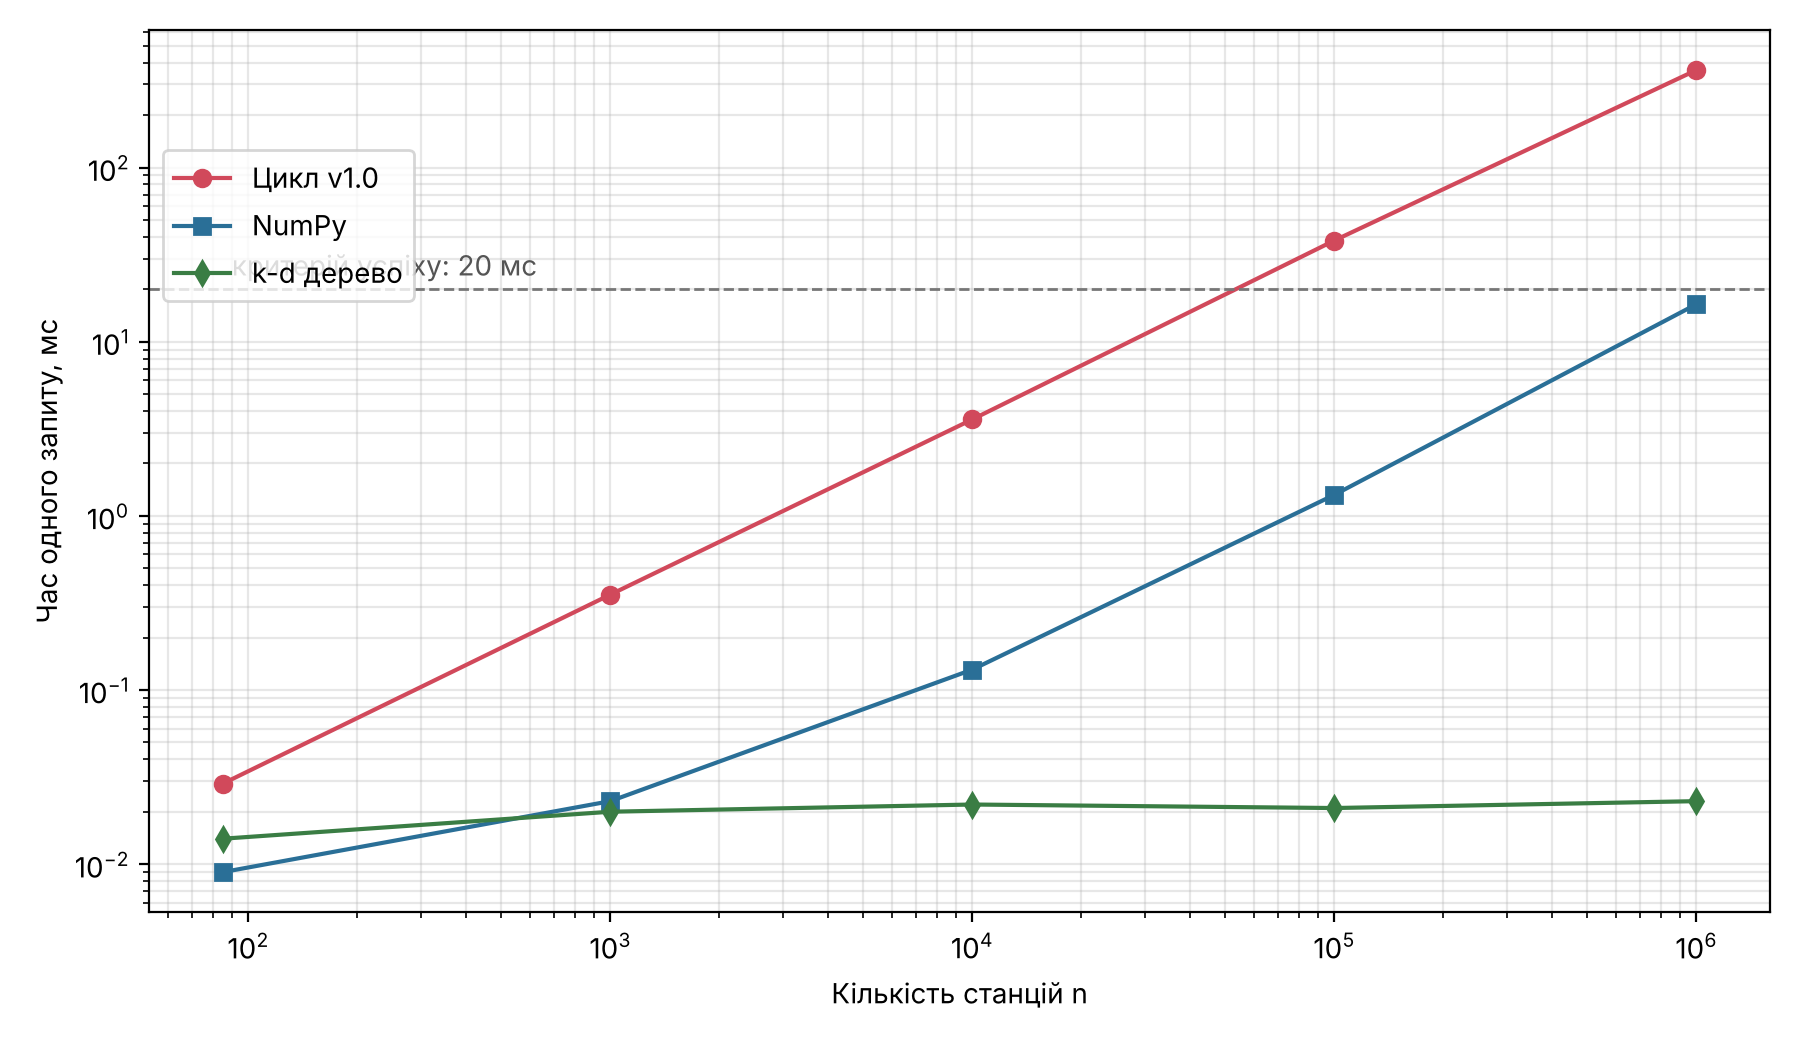
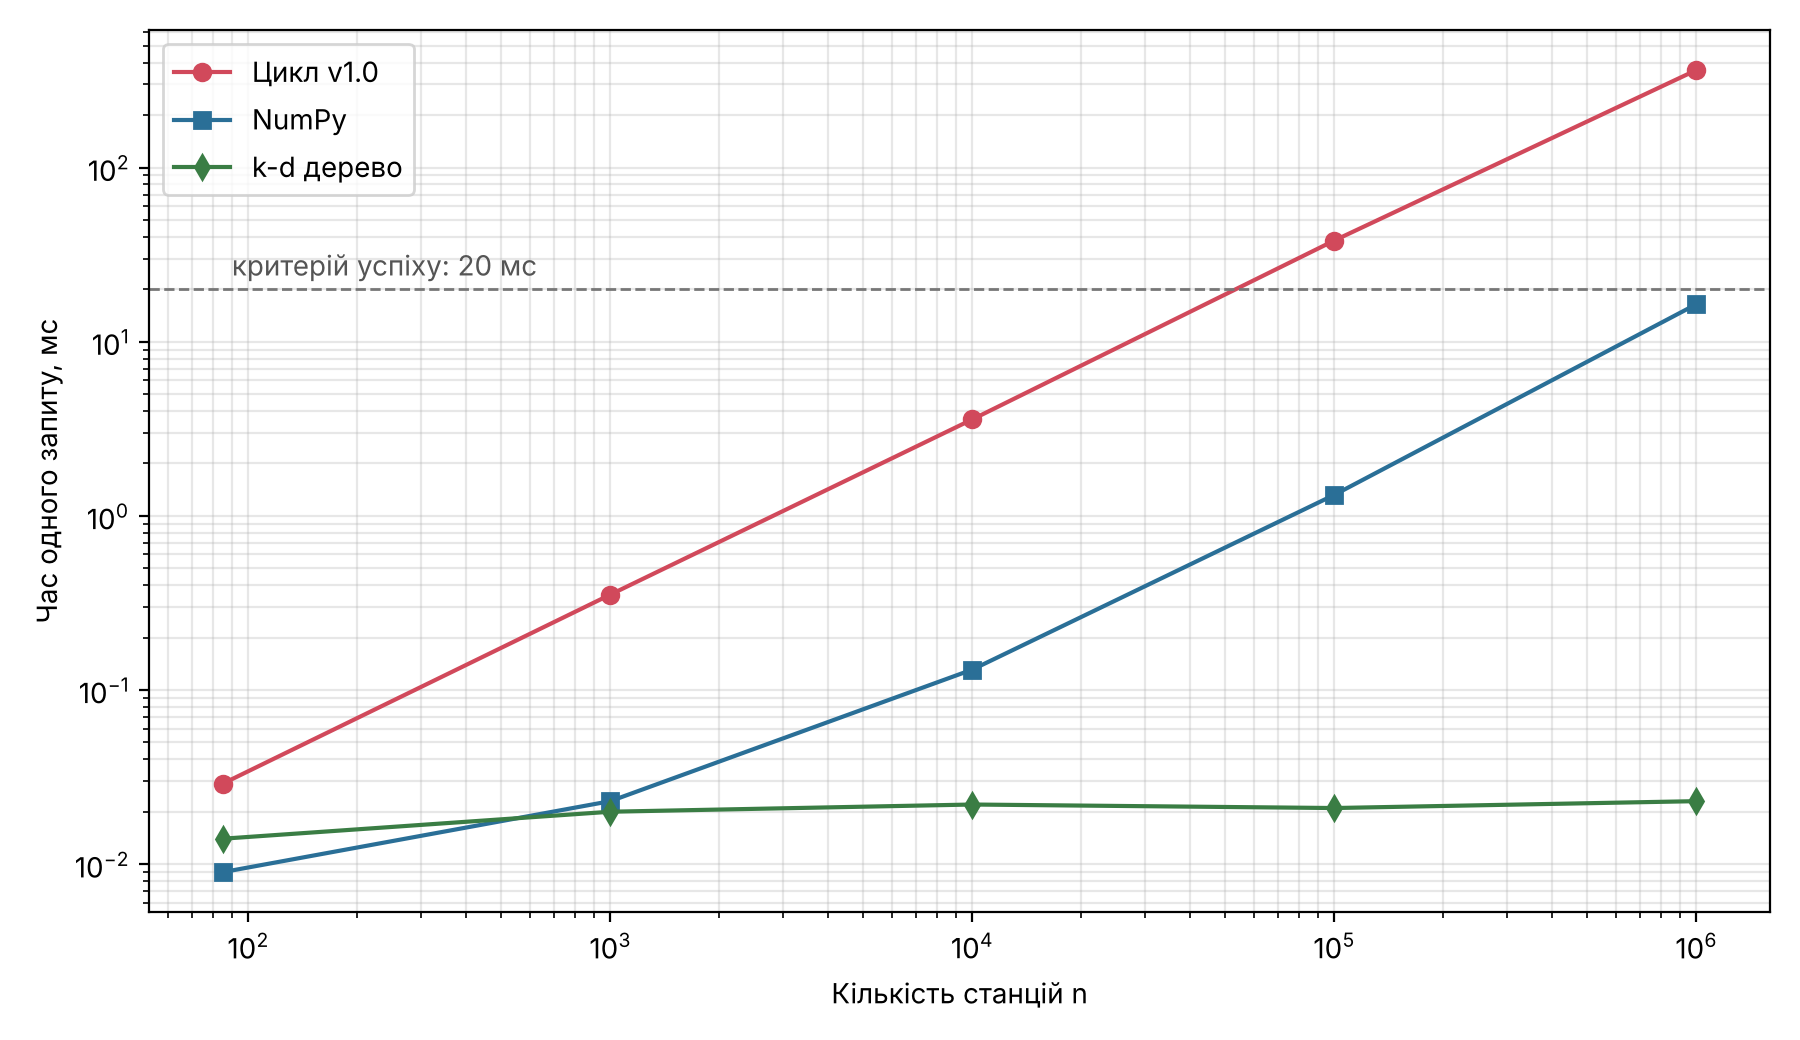
Оновлено рисунки 3.1 і 3.2

Changed region(s): [[0.0933, 0.0615, 0.2489, 0.3077]]

diff --git a/figures/rysunok_3_2.py b/figures/rysunok_3_2.py
@@ -8,30 +8,28 @@ branches = [                       # (назва гілки, кількість 
     ("iter/v1.3-maintainability", 3, "Д4, Д5, Д7"),
     ("iter/v2.0-performance", 2, "Д9, Д11"),
 ]
+word = {2: "коміти", 3: "коміти", 4: "коміти"}
 step = 4.0
-fig, ax = plt.subplots(figsize=(11, 5))
+fig, ax = plt.subplots(figsize=(11, 4.2))
 
-# основна гілка main
 xs = [i * step for i in range(len(versions))]
-ax.plot([-0.8, xs[-1] + 0.8], [0, 0], color="#2a6f97", lw=3, zorder=1)
-ax.text(-1.1, 0.3, "main", color="#2a6f97", fontsize=12, fontweight="bold")
+ax.plot([-0.9, xs[-1] + 0.9], [0, 0], color="#2a6f97", lw=4, zorder=1)
 for x, v in zip(xs, versions):
-    ax.plot(x, 0, "o", ms=13, color="#2a6f97", zorder=3)
-    ax.text(x, -0.55, "тег " + v, ha="center", va="top", fontsize=11, fontweight="bold")
+    ax.plot(x, 0, "o", ms=16, color="#2a6f97", zorder=3)
+    ax.text(x, -0.35, "тег " + v, ha="center", va="top", fontsize=13, fontweight="bold")
+ax.text(-0.9, 0.28, "main", color="#2a6f97", fontsize=14, fontweight="bold")
 
-# гілки ітерацій: відходять від попередньої версії, зливаються у наступну
 for i, (name, n, defects) in enumerate(branches):
     x0, x1 = xs[i], xs[i + 1]
     inner = [x0 + (x1 - x0) * (k + 1) / (n + 1) for k in range(n)]
-    ax.plot([x0] + inner + [x1], [0] + [1.4] * n + [0], color="#e9a23b", lw=2, zorder=1)
-    ax.plot(inner, [1.4] * n, "o", ms=9, color="#e9a23b", zorder=3)
-    ax.text((x0 + x1) / 2, 1.95, name, ha="center", fontsize=10, color="#9a6a12")
-    ax.text((x0 + x1) / 2, 1.65, f"{n} к., {defects}".replace("к.", "комітів" if n > 4 else "коміти" if n > 1 else "коміт"),
-            ha="center", fontsize=9, color="#555555")
+    ax.plot([x0] + inner + [x1], [0] + [1.2] * n + [0], color="#e9a23b", lw=2.5, zorder=1)
+    ax.plot(inner, [1.2] * n, "o", ms=11, color="#e9a23b", zorder=3)
+    ax.text((x0 + x1) / 2, 1.85, name, ha="center", fontsize=12, color="#8a5a0a", fontweight="bold")
+    ax.text((x0 + x1) / 2, 1.5, f"{n} {word[n]}, {defects}", ha="center", fontsize=11, color="#444444")
 
-ax.set_xlim(-1.2, xs[-1] + 1.2)
-ax.set_ylim(-1.4, 2.6)
+ax.set_xlim(-1.2, xs[-1] + 1.0)
+ax.set_ylim(-1.0, 2.25)
 ax.axis("off")
 plt.tight_layout()
-plt.savefig("rysunok_3_2.png", dpi=200)
+plt.savefig("rysunok_3_2.png", dpi=200, bbox_inches="tight")
 print("Збережено rysunok_3_2.png")

diff --git a/figures/rysunok_3_1.py b/figures/rysunok_3_1.py
@@ -16,7 +16,7 @@ ax.set_xscale("log")
 ax.set_yscale("log")
 ax.set_xlabel("Кількість станцій n")
 ax.set_ylabel("Час одного запиту, мс")
-ax.legend(loc="upper left", bbox_to_anchor=(0.0, 0.88))
+ax.legend(loc="upper left")
 ax.grid(which="both", alpha=0.3)
 plt.tight_layout()
 plt.savefig("rysunok_3_1.png", dpi=200)
